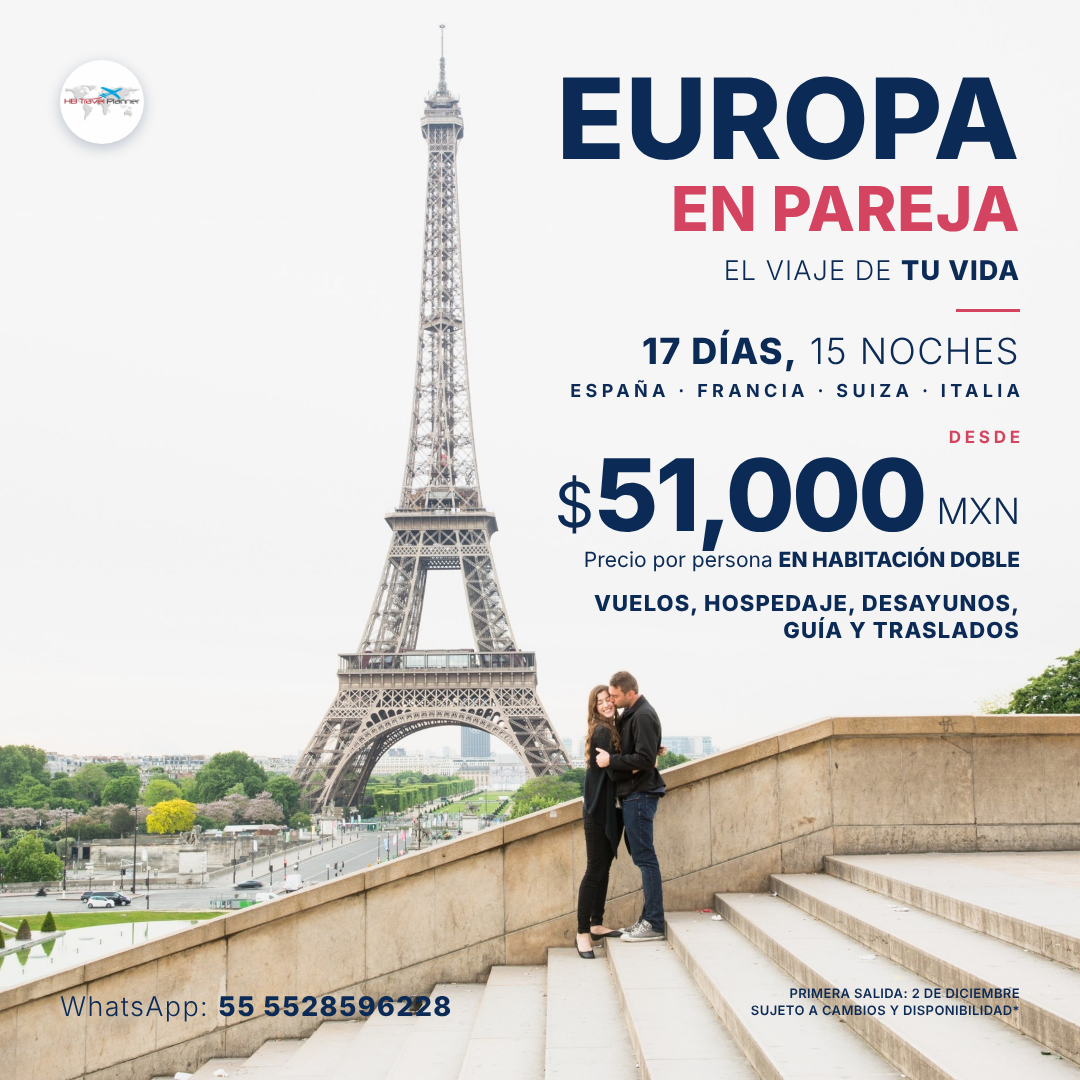
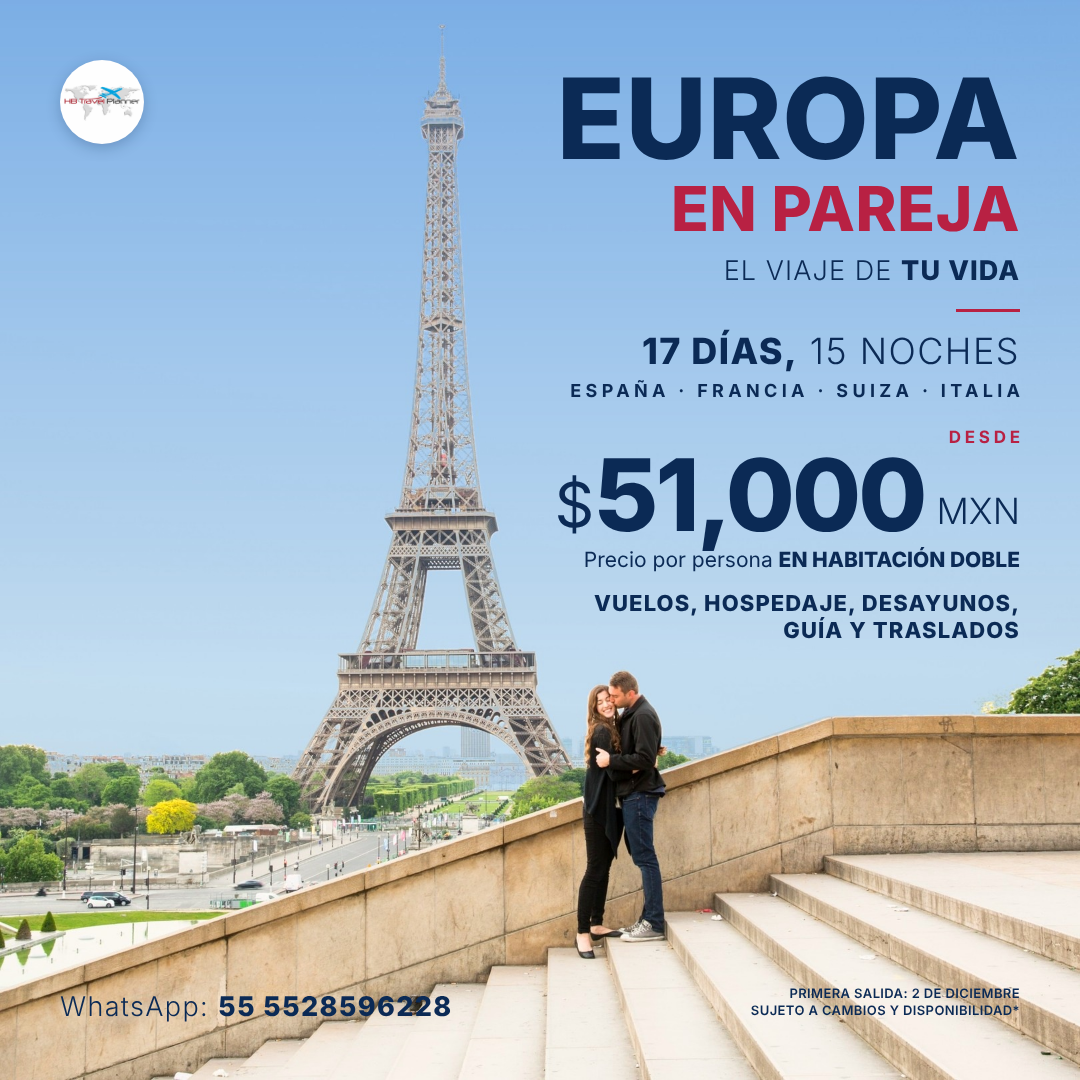
Europa en pareja: edited photo with soft blue sky (4:5 and 1:1)
Claude-Session: https://claude.ai/code/session_01KE8y3zqjDfDU485wDV3TSB

diff --git a/flyers/europa-en-pareja-4x5.html b/flyers/europa-en-pareja-4x5.html
@@ -5,11 +5,11 @@
 <title>Europa en pareja 4:5 — HB Travel Planner</title>
 <style>
   /* márgenes de seguridad: 60 px; foto a sangre, sin degradados ni velos */
-  :root{ --m:60px; --navy:#0b2a55; --rose:#d4435f; --amber:#f6a53f; --serif:'Liberation Serif','FreeSerif','Times New Roman',serif; }
+  :root{ --m:60px; --navy:#0b2a55; --rose:#b82143; --amber:#f6a53f; --serif:'Liberation Serif','FreeSerif','Times New Roman',serif; }
   *{box-sizing:border-box;margin:0;padding:0}
   body{background:#000;width:1080px;height:1350px;font-family:'Inter',sans-serif;color:var(--navy)}
   .flyer{position:relative;width:1080px;height:1350px;overflow:hidden;background:#f0f0ee}
-  .photo{position:absolute;inset:0;background:url(assets/paris-pareja.jpg) -105px 0/1350px 1350px no-repeat}
+  .photo{position:absolute;inset:0;background:url(assets/paris-pareja-color.jpg) -105px 0/1350px 1350px no-repeat}
 
   /* cabecera (a la derecha de la torre) */
   .head{position:absolute;right:var(--m);top:var(--m);width:470px;text-align:right}

diff --git a/flyers/europa-en-pareja-1x1.html b/flyers/europa-en-pareja-1x1.html
@@ -5,11 +5,11 @@
 <title>Europa en pareja 1:1 — HB Travel Planner</title>
 <style>
   /* márgenes de seguridad: 60 px; foto a sangre, sin degradados ni velos */
-  :root{ --m:60px; --navy:#0b2a55; --rose:#d4435f; }
+  :root{ --m:60px; --navy:#0b2a55; --rose:#b82143; }
   *{box-sizing:border-box;margin:0;padding:0}
   body{background:#000;width:1080px;height:1080px;font-family:'Inter',sans-serif;color:var(--navy)}
   .flyer{position:relative;width:1080px;height:1080px;overflow:hidden;background:#f0f0ee}
-  .photo{position:absolute;inset:0;background:url(assets/paris-pareja.jpg) center/1080px 1080px no-repeat}
+  .photo{position:absolute;inset:0;background:url(assets/paris-pareja-color.jpg) center/1080px 1080px no-repeat}
   .logo{position:absolute;left:var(--m);top:var(--m);width:84px;height:84px;border-radius:50%;
     background:#fff url(assets/logo.jpg) center/118% no-repeat;box-shadow:0 4px 14px rgba(11,42,85,.25)}
 
